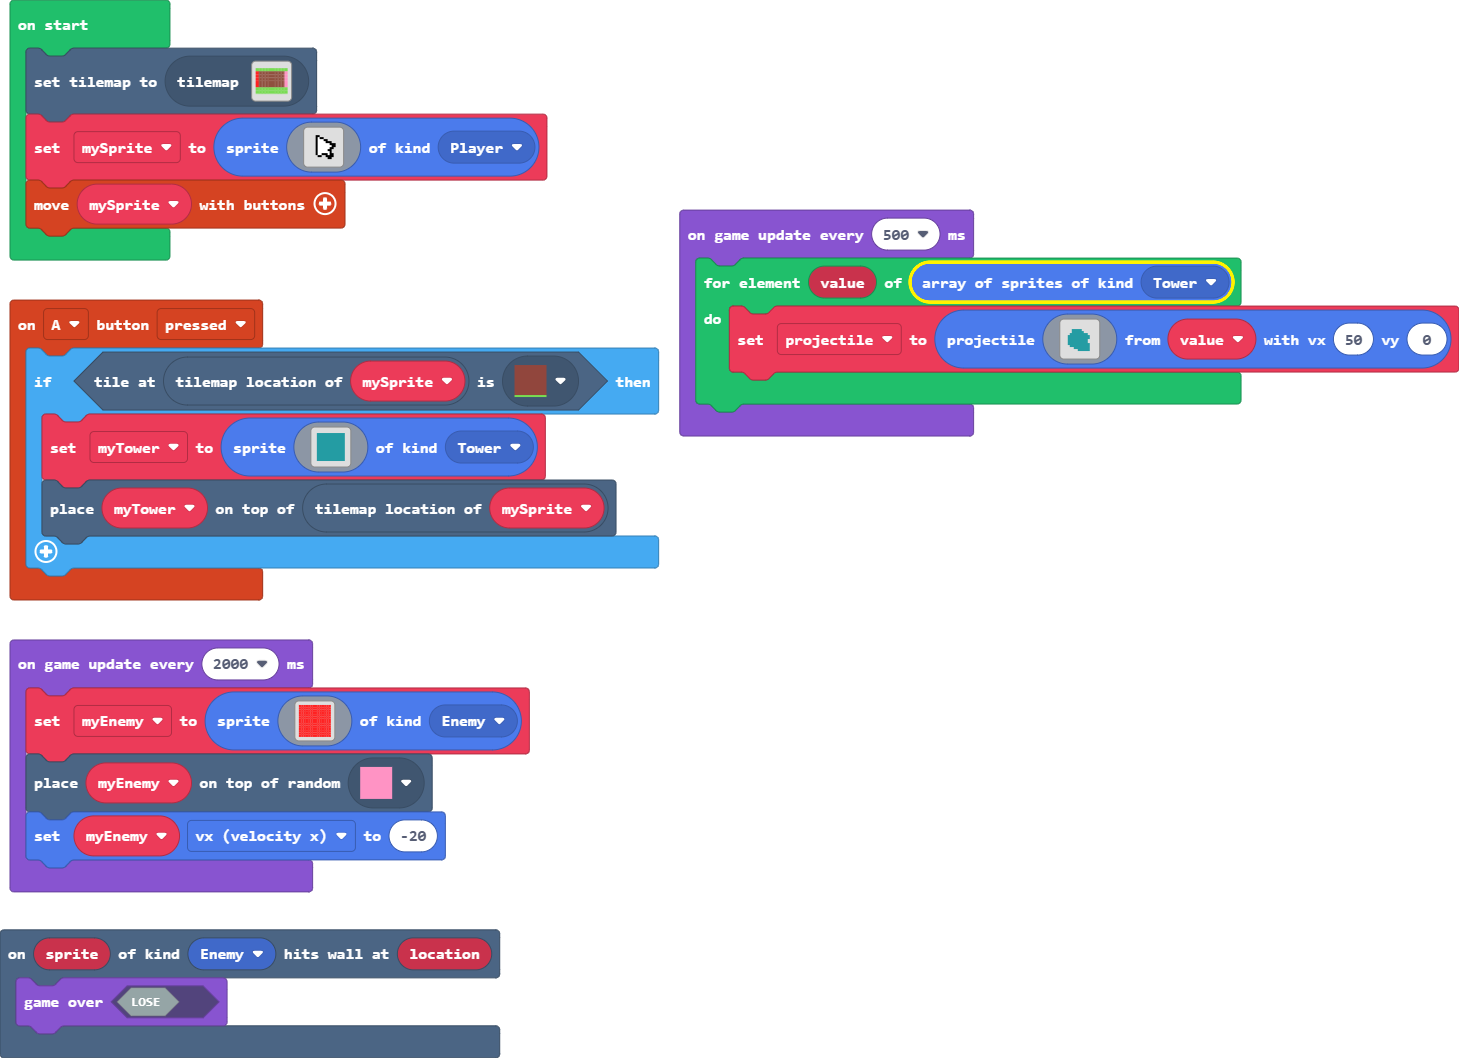
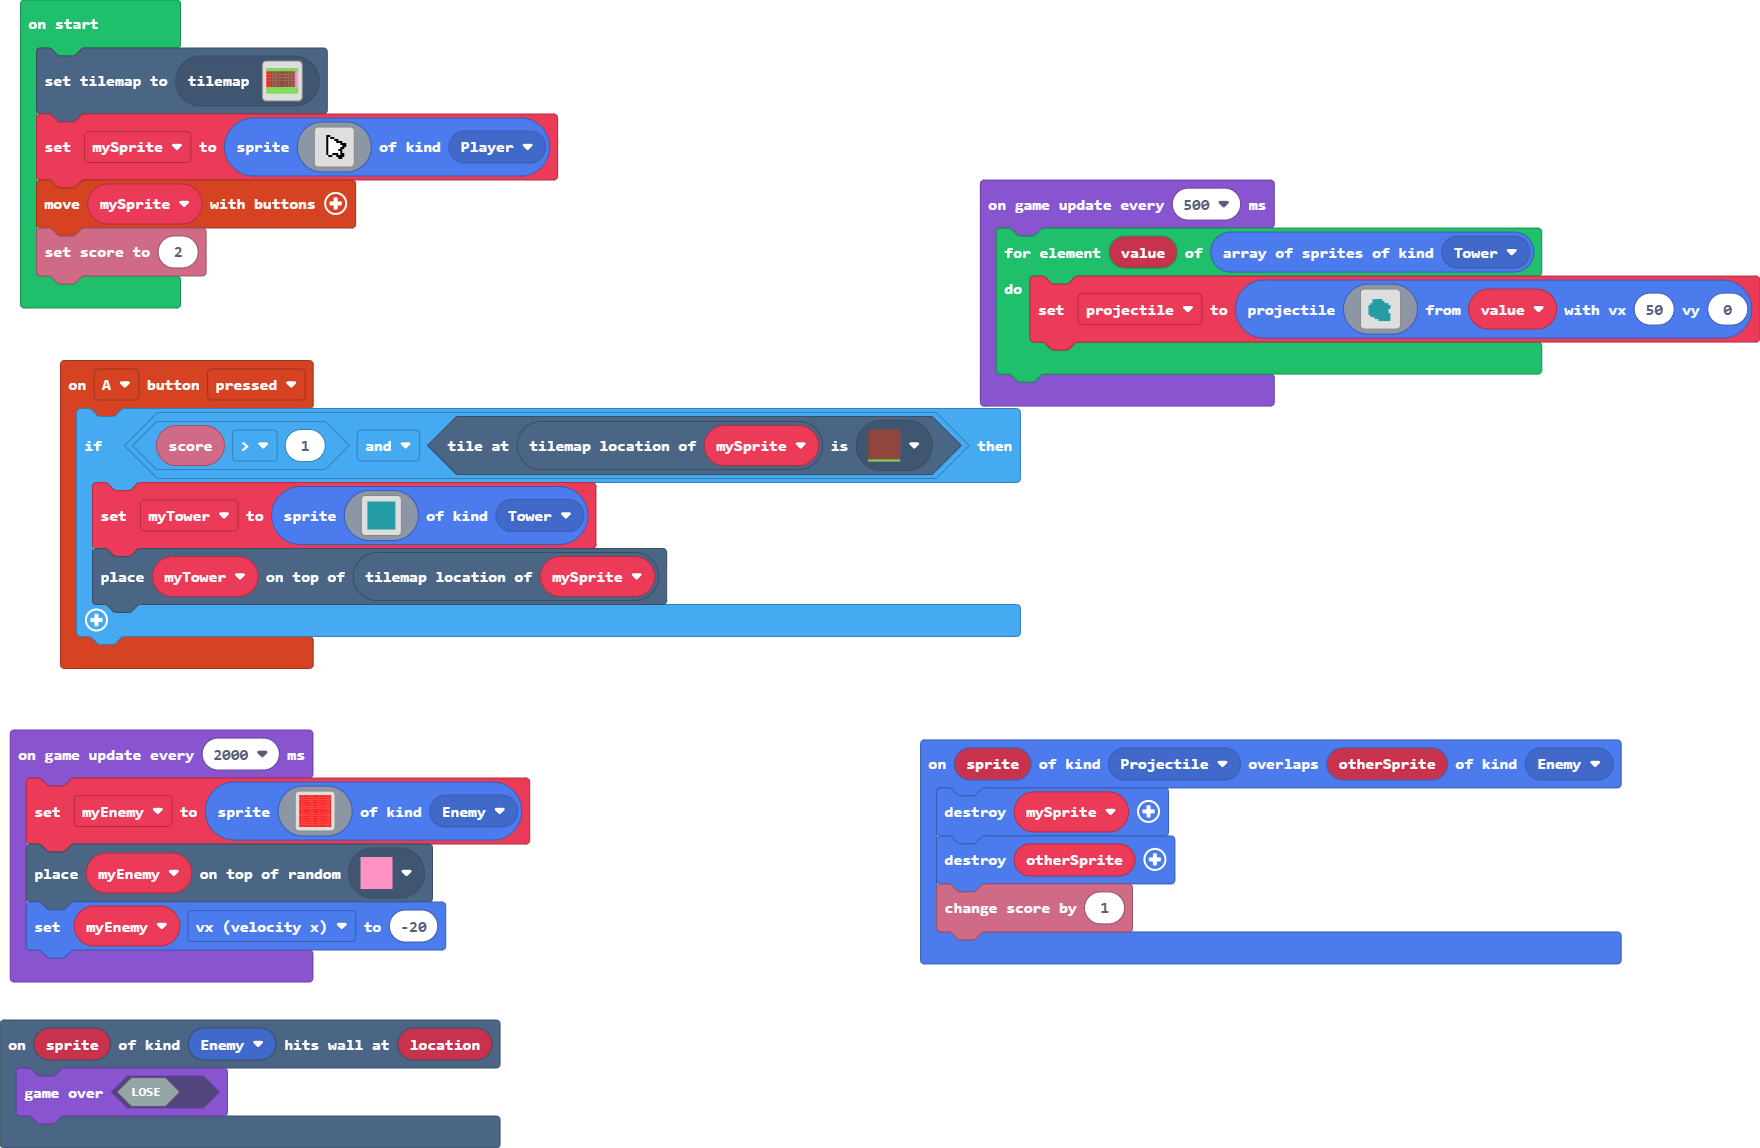
made you have to pay for towers

diff --git a/tilemap.g.ts b/tilemap.g.ts
@@ -43,6 +43,25 @@ namespace myTiles {
 . . . . . . . . . . . . . . . . 
 . . . . . . . . . . . . . . . . 
 `, [myTiles.transparency16], TileScale.Sixteen);
+            case "level3":
+            case "level3":return tiles.createTilemap(hex`1000100000000000000000000000000000000000000000000000000000000000000000000000000000000000000000000000000000000000000000000000000000000000000000000000000000000000000000000000000000000000000000000000000000000000000000000000000000000000000000000000000000000000000000000000000000000000000000000000000000000000000000000000000000000000000000000000000000000000000000000000000000000000000000000000000000000000000000000000000000000000000000000000000000000000000000000000000000000000000000000000000000000000000000000000000000000000`, img`
+. . . . . . . . . . . . . . . . 
+. . . . . . . . . . . . . . . . 
+. . . . . . . . . . . . . . . . 
+. . . . . . . . . . . . . . . . 
+. . . . . . . . . . . . . . . . 
+. . . . . . . . . . . . . . . . 
+. . . . . . . . . . . . . . . . 
+. . . . . . . . . . . . . . . . 
+. . . . . . . . . . . . . . . . 
+. . . . . . . . . . . . . . . . 
+. . . . . . . . . . . . . . . . 
+. . . . . . . . . . . . . . . . 
+. . . . . . . . . . . . . . . . 
+. . . . . . . . . . . . . . . . 
+. . . . . . . . . . . . . . . . 
+. . . . . . . . . . . . . . . . 
+`, [myTiles.transparency16], TileScale.Sixteen);
         }
         return null;
     })

diff --git a/main.ts b/main.ts
@@ -3,7 +3,7 @@ namespace SpriteKind {
     export const Tower = SpriteKind.create()
 }
 controller.A.onEvent(ControllerButtonEvent.Pressed, function () {
-    if (tiles.tileAtLocationEquals(mySprite.tilemapLocation(), assets.tile`myTile`)) {
+    if (info.score() > 1 && tiles.tileAtLocationEquals(mySprite.tilemapLocation(), assets.tile`myTile`)) {
         myTower = sprites.create(img`
             . . . . . . . . . . . . . . . . 
             . 6 6 6 6 6 6 6 6 6 6 6 6 6 6 . 
@@ -27,6 +27,11 @@ controller.A.onEvent(ControllerButtonEvent.Pressed, function () {
 })
 scene.onHitWall(SpriteKind.Enemy, function (sprite, location) {
     game.gameOver(false)
+})
+sprites.onOverlap(SpriteKind.Projectile, SpriteKind.Enemy, function (sprite, otherSprite) {
+    sprites.destroy(mySprite)
+    sprites.destroy(otherSprite)
+    info.changeScoreBy(1)
 })
 let projectile: Sprite = null
 let myEnemy: Sprite = null
@@ -52,6 +57,7 @@ mySprite = sprites.create(img`
     . . . . . . . . . . . . . . . . 
     `, SpriteKind.Player)
 controller.moveSprite(mySprite)
+info.setScore(2)
 game.onUpdateInterval(2000, function () {
     myEnemy = sprites.create(img`
         2 2 2 2 2 2 2 2 2 2 2 2 2 2 
